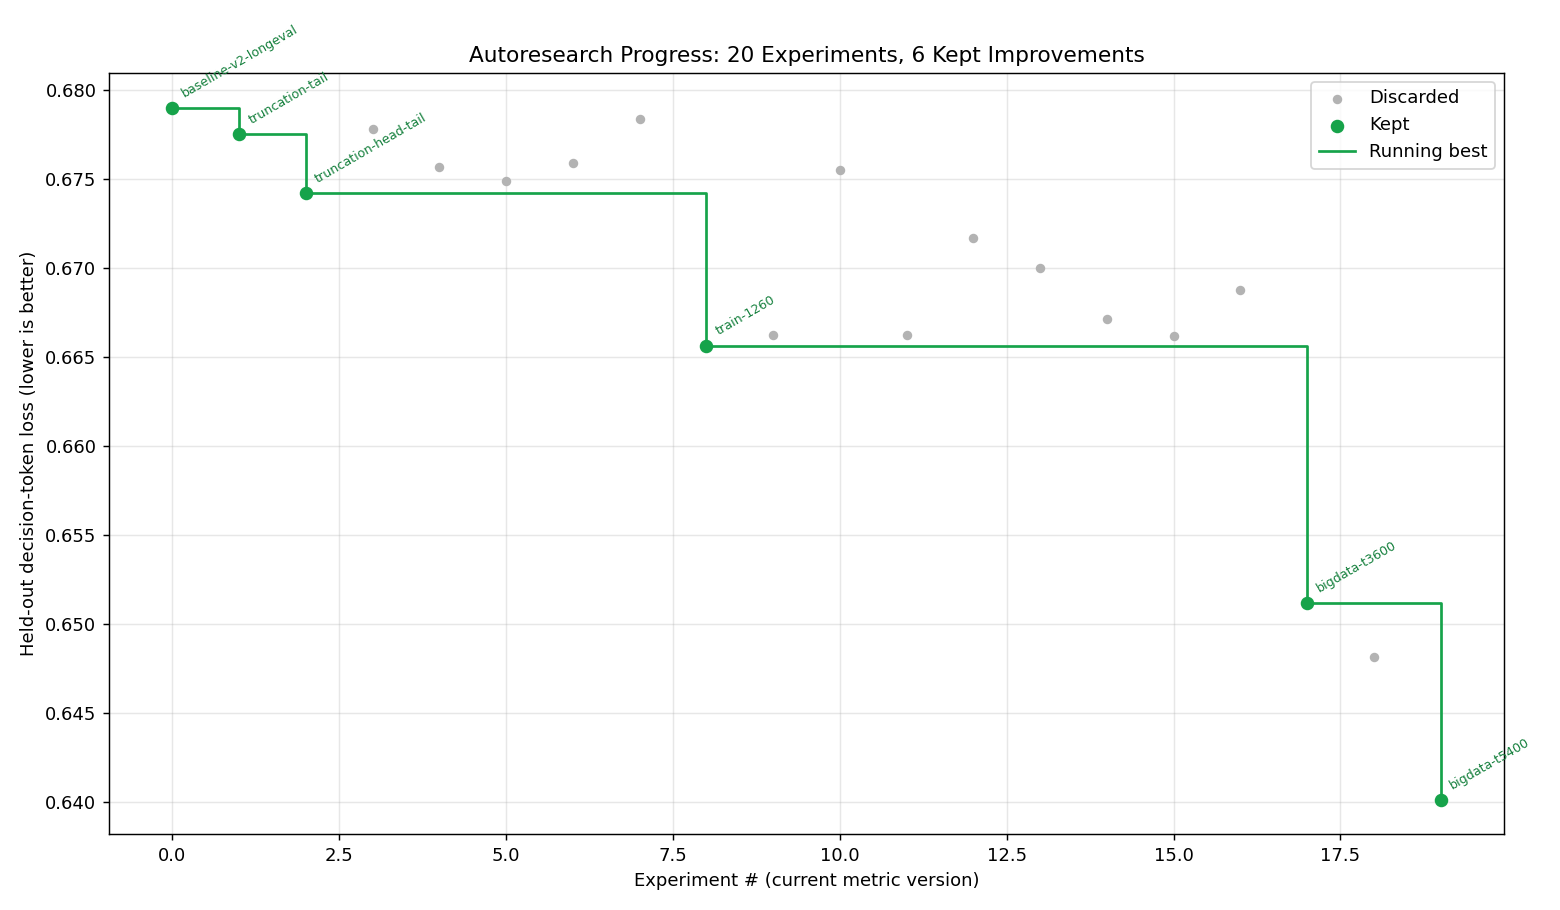
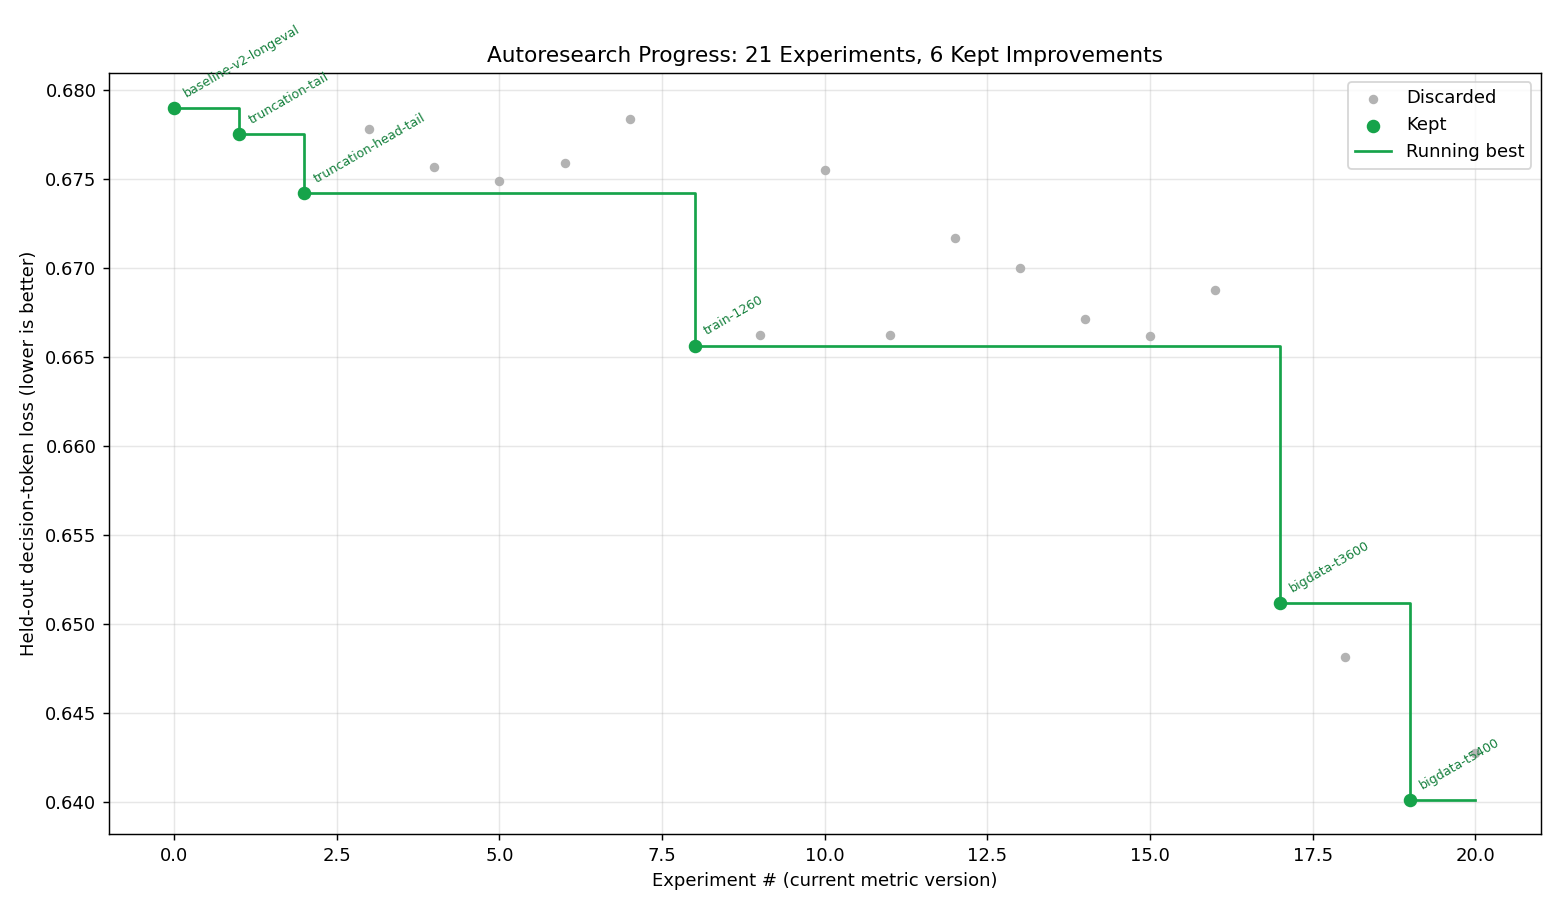
SPT goal-recall: honest negative on the proxy (0040 0.6428 vs 0039 0.6401)
SPT doesn't help held-out decision loss (val has no self-check spans + dilutes
decision tokens) -> the proxy is the wrong instrument for SPT; keep it as the thesis
method but measure via a capability eval. Compute frontier (0041 train7200) running;
queued 0042 (train7200 seed43) to 2-seed-confirm the frontier. Next: raise timeout,
push compute toward 1 epoch.

diff --git a/RESEARCH_LOG.md b/RESEARCH_LOG.md
@@ -372,4 +372,20 @@ scaling result — fixed (timeout 9000). On the re-run:
 ### exp 0041 — train 7200 (~520 steps, push the compute frontier)
 2-seed-confirm the frontier-best once compute finally plateaus.
 
+### exp 0040 — SPT goal-recall: honest NEGATIVE on the proxy
+- **0040** (big-data + train5400 + spt_goal_recall): **0.64277** vs 0039's 0.64014 (same
+  compute, no SPT) — +0.0026, within noise but trending worse on every bucket. SPT goal-recall
+  does NOT help held-out decision loss. *Why:* (1) the val set has no self-check spans, so the
+  metric can't reward improved goal-tracking; (2) the appended goal-recall answer dilutes the
+  decision-token loss budget; (3) head_tail keeps the head, so the goal is visible near the
+  answer → retrieval, not deep recall. **Honest takeaway: the next-token proxy is the wrong
+  instrument for SPT.** Keep SPT as the method/thesis bet but measure it with a capability eval
+  (goal-stability / Hexagon-Bench), not this proxy. Don't keep stacking it.
+- 0041 (train7200) still running -- the compute frontier remains the one real lever.
+
+### exp 0042 — 2-seed confirm of the train7200 frontier
+Keeps the GPU busy (within the 9000s timeout) while confirming the frontier point. The next
+BIGGER compute step (train9000+ toward 1 epoch ~1141 steps) needs a timeout raise + loop
+restart, done at the next idle.
+
 <!-- next entries appended at each steering check-in -->

diff --git a/EXPERIMENTS.md b/EXPERIMENTS.md
@@ -52,5 +52,6 @@ decision-loss curve).
 | 0037 | bigdata-t3600 | Flagship scale run: big data + train_seconds 3600 (~1hr, ~270 steps). Find the data+com... | 0.65118 | decision_loss_v2 | ✅ | 258 | 3600.4 |
 | 0038 | bigdata-seed43 | 2-seed confirm of the 0037 step-change (big-data@3600=0.6512, -0.0145): same config, se... | 0.64813 | decision_loss_v2 |  | 260 | 3609.9 |
 | 0039 | bigdata-t5400 | Push compute scaling further: train_seconds 5400 (~390 steps, ~40% of an epoch on the 9... | 0.64014 | decision_loss_v2 | ✅ | 388 | 5406.0 |
+| 0040 | spt-goalrecall | SPT self-prediction (thesis method): spt_goal_recall=true on the big-data best -- train... | 0.64277 | decision_loss_v2 |  | 385 | 5405.7 |
 
-_39 experiments logged; 16 on the v1 (head@8192) curve, 20 on the v2 (long-horizon, to 16384) curve, 16 kept improvements total._
+_40 experiments logged; 16 on the v1 (head@8192) curve, 21 on the v2 (long-horizon, to 16384) curve, 16 kept improvements total._
